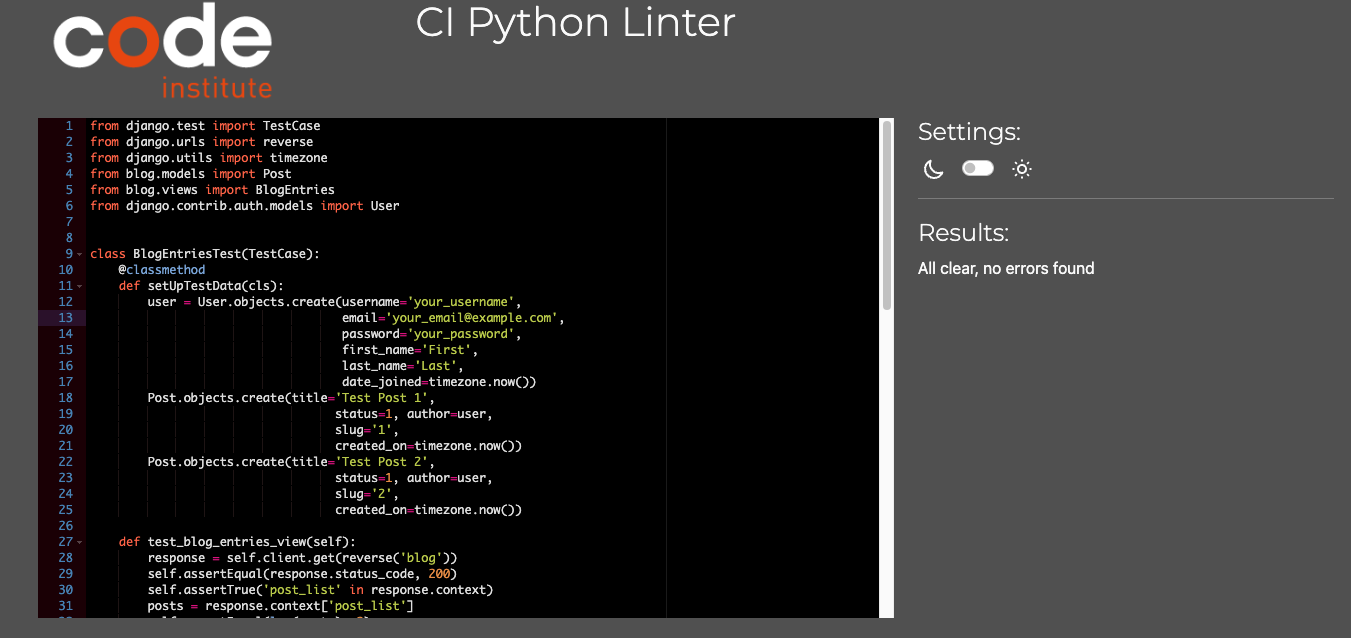
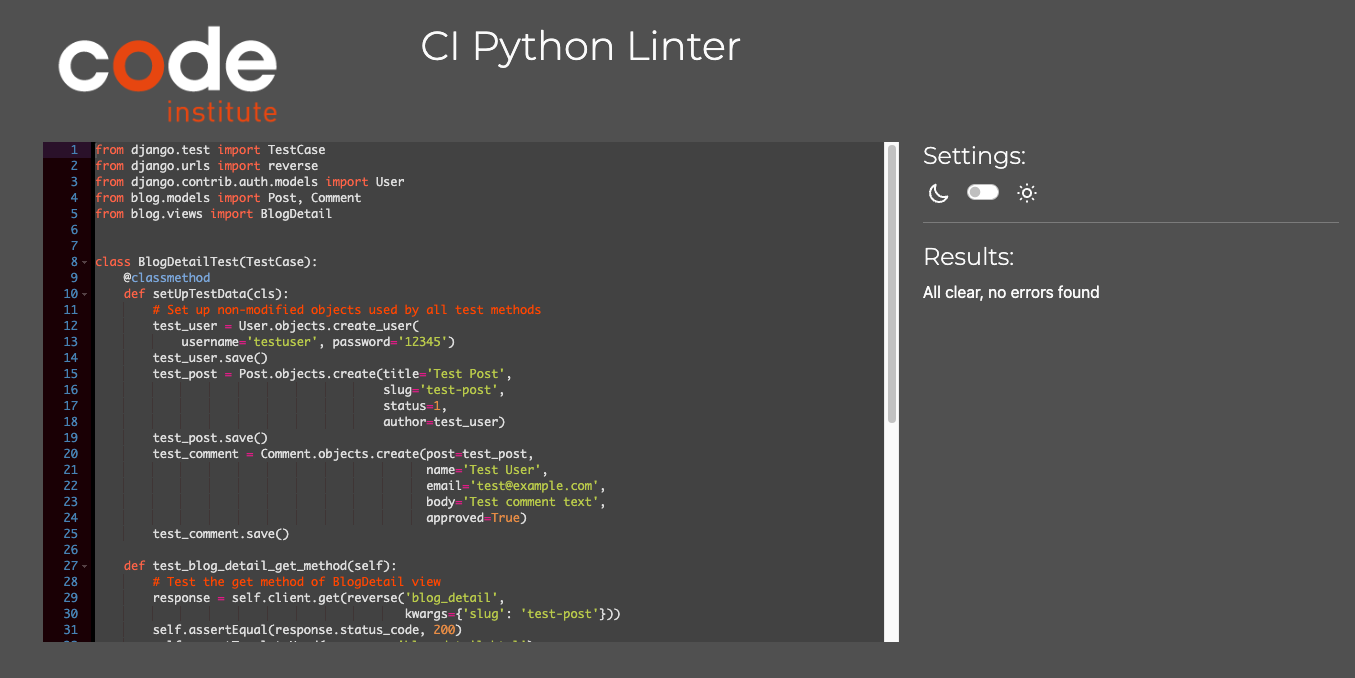
welcome tests added

diff --git a/blog/tests.py b/blog/tests.py
@@ -4,20 +4,30 @@ from django.contrib.auth.models import User
 from blog.models import Post, Comment
 from blog.views import BlogDetail
 
+
 class BlogDetailTest(TestCase):
     @classmethod
     def setUpTestData(cls):
         # Set up non-modified objects used by all test methods
-        test_user = User.objects.create_user(username='testuser', password='12345')
+        test_user = User.objects.create_user(
+            username='testuser', password='12345')
         test_user.save()
-        test_post = Post.objects.create(title='Test Post', slug='test-post', status=1, author=test_user)
+        test_post = Post.objects.create(title='Test Post',
+                                        slug='test-post',
+                                        status=1,
+                                        author=test_user)
         test_post.save()
-        test_comment = Comment.objects.create(post=test_post, name='Test User', email='test@example.com', body='Test comment text', approved=True)
+        test_comment = Comment.objects.create(post=test_post,
+                                              name='Test User',
+                                              email='test@example.com',
+                                              body='Test comment text',
+                                              approved=True)
         test_comment.save()
 
     def test_blog_detail_get_method(self):
         # Test the get method of BlogDetail view
-        response = self.client.get(reverse('blog_detail', kwargs={'slug': 'test-post'}))
+        response = self.client.get(reverse('blog_detail',
+                                           kwargs={'slug': 'test-post'}))
         self.assertEqual(response.status_code, 200)
         self.assertTemplateUsed(response, 'blog_detail.html')
 
@@ -29,12 +39,17 @@ class BlogDetailTest(TestCase):
             'name': 'Test User',
             'body': 'Test comment text',
         }
-        response = self.client.post(reverse('blog_detail', kwargs={'slug': 'test-post'}), data=comment_data)
+        response = self.client.post(reverse('blog_detail',
+                                            kwargs={'slug': 'test-post'}),
+                                    data=comment_data)
         self.assertEqual(response.status_code, 200)
-        self.assertEqual(Post.objects.get(slug='test-post').comments.count(), 2)
+        self.assertEqual(Post.objects.get(
+            slug='test-post').comments.count(), 2)
 
     def test_blog_like_post_method(self):
         # Test the post method of BlogLike view
         self.client.force_login(User.objects.get(username='testuser'))
-        response = self.client.post(reverse('blog_like', kwargs={'slug': 'test-post'}))
+        response = self.client.post(reverse('blog_like',
+                                    kwargs={'slug': 'test-post'}))
         self.assertEqual(response.status_code, 302)
+        

diff --git a/contact/tests.py b/contact/tests.py
@@ -4,6 +4,7 @@ from django.core import mail
 from .forms import ContactForm
 from .views import ContactView
 
+
 class ContactViewTests(TestCase):
     def test_contact_form_submission(self):
         # Create a contact form instance with valid data
@@ -23,6 +24,9 @@ class ContactViewTests(TestCase):
 
         # Check that the email was sent
         self.assertEqual(len(mail.outbox), 1)
-        self.assertEqual(mail.outbox[0].subject, "Received contact form submission")
-        self.assertEqual(mail.outbox[0].from_email, "spudos16@gmail.com")
-        self.assertEqual(mail.outbox[0].to, ["spudos16@gmail.com", "test@example.com"])
+        self.assertEqual(
+                mail.outbox[0].subject, "Received contact form submission")
+        self.assertEqual(
+                mail.outbox[0].from_email, "spudos16@gmail.com")
+        self.assertEqual(
+                mail.outbox[0].to, ["spudos16@gmail.com", "test@example.com"])

diff --git a/README.md b/README.md
@@ -710,6 +710,11 @@ JSHint javaScript Validation Service was used to validate all javaScript snippet
 
 ### Welcome App
 
+<details><summary>tests.py</summary>
+
+![tests.py](/static/document_images/pep8_welcome_tests.png)
+</details>
+
 <details><summary>urls.py</summary>
 
 ![urls.py](/static/document_images/pep8_welcome_urls.png)
